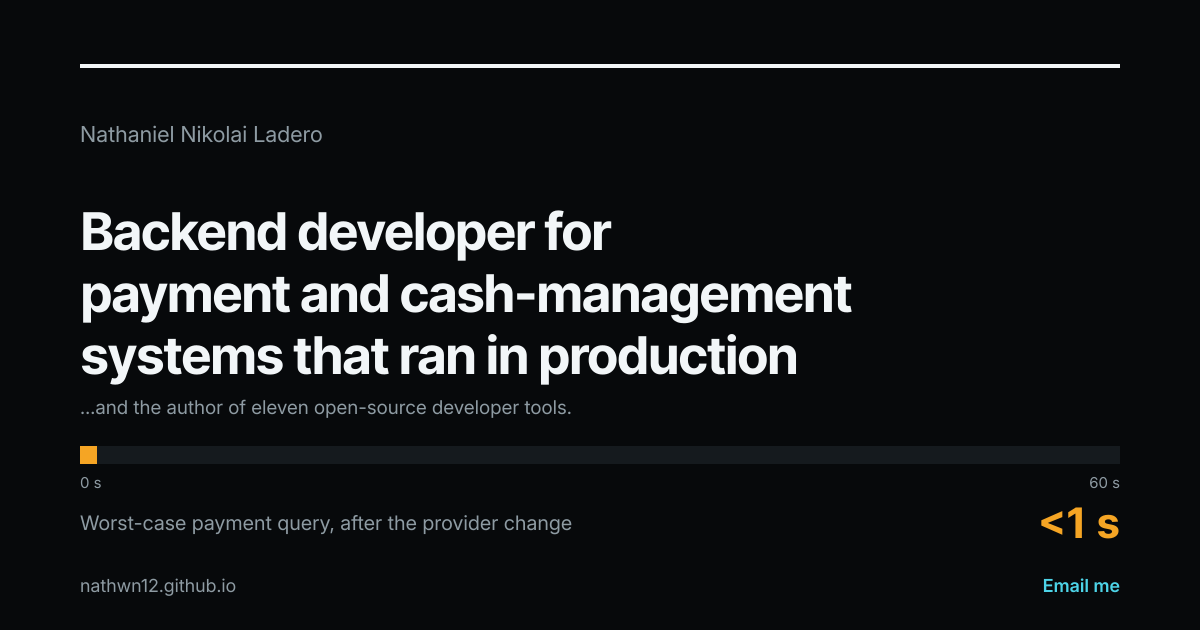
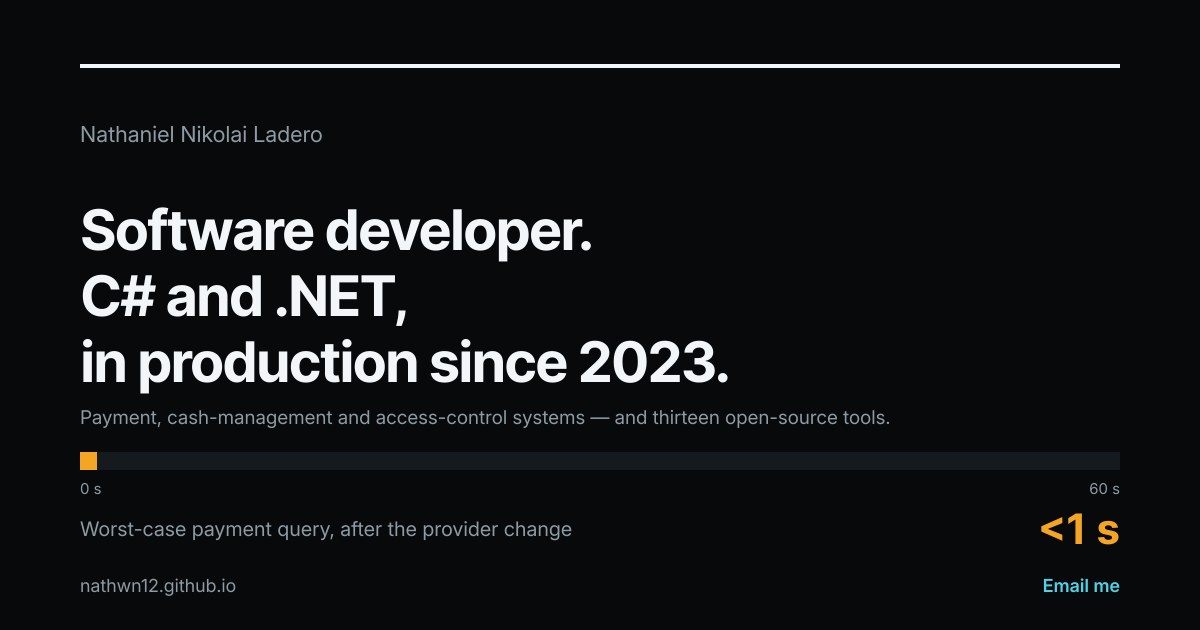
docs: the record as it ships, and a card that matches it

diff --git a/index.html b/index.html
@@ -71,12 +71,12 @@
     <meta property="og:image" content="https://nathwn12.github.io/og-image-2026-11-13.png" />
     <meta property="og:image:width" content="1200" />
     <meta property="og:image:height" content="630" />
-    <meta property="og:image:alt" content="Dark card for Nathaniel Nikolai Ladero: backend developer for payment and cash-management systems that ran in production, with the worst-case payment query measured at under one second." />
+    <meta property="og:image:alt" content="Dark card for Nathaniel Nikolai Ladero: software developer, C# and .NET, in production since 2023, with the worst-case payment query measured at under one second." />
     <meta name="twitter:card" content="summary_large_image" />
     <meta name="twitter:title" content="Nathaniel Nikolai Ladero — software developer, C# and .NET" />
     <meta name="twitter:description" content="Software developer in the Philippines, building C# and .NET payment, cash management and access control systems in production since 2023, and current in AI-assisted development with local models." />
     <meta name="twitter:image" content="https://nathwn12.github.io/og-image-2026-11-13.png" />
-    <meta name="twitter:image:alt" content="Dark card for Nathaniel Nikolai Ladero: backend developer for payment and cash-management systems that ran in production, with the worst-case payment query measured at under one second." />
+    <meta name="twitter:image:alt" content="Dark card for Nathaniel Nikolai Ladero: software developer, C# and .NET, in production since 2023, with the worst-case payment query measured at under one second." />
     <link rel="icon" type="image/svg+xml" href="/icon.svg" />
     <link
       rel="preload"

diff --git a/DESIGN.md b/DESIGN.md
@@ -56,17 +56,27 @@ value is written. A component reads a token; it never writes a hex.
 
 | Token | Value | Role |
 |---|---|---|
-| `--rec-ground` | `#0A0C0E` | the page ground |
-| `--rec-panel` | `#111417` | a raised surface: inset readout, instrument panel |
-| `--rec-panel-2` | `#171B1F` | the step above panel: hover, one inset row |
-| `--rec-rule` | `#23282D` | hairline structure: table rows, panel edges, seams |
+| `--rec-ground` | `#07090B` | the page ground |
+| `--rec-panel` | `#0E1114` | a raised surface: inset readout, instrument panel |
+| `--rec-panel-2` | `#151A1E` | the step above panel: hover, one inset row |
+| `--rec-rule` | `#20262B` | hairline structure: table rows, panel edges, seams |
 | `--rec-rule-strong` | `#39424A` | an active edge: underline, cap, scrollbar thumb |
-| `--rec-ink` | `#E9EEF2` | primary text |
-| `--rec-ink-muted` | `#8C979E` | secondary text only — never body |
-| `--rec-signal` | `#7C9CFF` | structural accent: links, focus, active rules, marks |
-| `--rec-measure` | `#4DD4E8` | **measured values only**: numerals, the live readout |
-| `--rec-alarm` | `#FF5D5D` | exactly one use per page: the "before" bar, the retired project |
+| `--rec-ink` | `#F2F6F8` | primary text |
+| `--rec-ink-muted` | `#8E9BA3` | secondary text only - never body |
+| `--rec-signal` | `#4DD4E8` | structural accent: links, focus, active rules, marks |
+| `--rec-measure` | `#F5A524` | **measured values only**: numerals, the live readout |
+| `--rec-alarm` | `#FF5D5D` | exactly one use per page |
 | `--rec-selection` | signal at 22% | `::selection` background |
+
+The light theme is the same eleven roles, re-pointed: ground `#F1F2ED`, ink `#0D1013`,
+signal `#1B2ED1`, measure `#9A4708`, alarm `#C81E1E`. One switching mechanism -
+`data-theme` on `<html>`, seeded from the OS before first paint and persisted in
+`nnl-theme`; F2 and the footer switch both write it.
+
+The direction is **chroma × area**: the ground stays quiet and chroma is spent only on the
+data, so the eye lands on the numbers. Warm measure against cold signal is deliberate
+simultaneous contrast, and the alarm sits more than 45° away from the measure hue so it
+never reads as a figure.
 
 Contrast is computed from these values by `src/test/theme.test.ts` and
 `tests/contrast.test.ts`, so a palette edit flows into the numbers:
@@ -196,20 +206,22 @@ it.
   and each renders its own seam.
 - The cover is a two-column row from 1024px: the claim, standfirst, stack,
   former-employment line, availability and two actions on the left; the latency
-  instrument as a 20–23rem right-hand panel. All three display lines start on the
-  frame's left edge.
-- Hairlines carry the atlas: the six group rows are a grid whose column headings
-  are the three tiers themselves (`Daily driver`, `Production shipped`, `Working
-  knowledge`). The column is the tier, so no badge, pill, bar or legend encodes
-  it. All 88 packages render once each; below `md` the table folds into one block
-  per group with each tier block labelled, so the fold costs no tier.
-- The work ledger is a single column of eleven repository rows. Each row is
-  complete on its own — name, the year flush on the frame's right edge, the line
-  about the project, then one mono run of kind, authorship and stack — so no two
-  rows share state and the scroll has no opinion about what is being read. Hover
-  and focus draw one 1px signal rule sweeping the row's width while the name
-  steps one space left; there is no panel to fall out of sync with the row under
-  the pointer.
+  instrument as a 20-23rem right-hand panel. All three display lines start on the
+  frame's left edge. The cover is content-height (about 740px at 1440) - it is
+  **not** a viewport tall and the instrument column is **not** sticky: the panel
+  scrolls with the page and states the measurement once.
+- Hairlines carry the atlas: the six group rows run the package names as
+  comma-separated runs with the tier as a word at the head of each run
+  (`Daily driver`, `Production shipped`, `Working knowledge`), so the tier costs
+  a word instead of a column. All 88 packages render once each; below `md` the
+  table folds into one block per group.
+- The work ledger on the home page is **four** featured rows; the other nine live
+  on `/projects`, where all thirteen render as one column. Each row is complete on
+  its own - name, the year flush on the frame's right edge, the line about the
+  project, then one mono run of kind, authorship and stack - so no two rows share
+  state and the scroll has no opinion about what is being read. Hover and focus
+  draw one 1px signal rule sweeping the row's width while the name steps one
+  space left.
 - The closed `footer.colophon` is the ways-out matrix: contact (mail), GitHub,
   LinkedIn, the two documents, the source, and the one setting. One surface per
   fact — no band repeats it.

diff --git a/README.md b/README.md
@@ -1,55 +1,56 @@
 # nathwn12.github.io
 
-Terminal-themed single-page portfolio and resume site for nathwn12, Backend Developer (C#, ASP.NET Core, fintech systems), where you explore experience, skills, projects, and contact through a command terminal with keyboard navigation, in light and dark themes.
+The portfolio and record of Nathaniel Nikolai Ladero — software developer, C# and .NET
+backend, in production since 2023. A near-black instrument panel that states what was
+shipped and what it measurably did, with the receipts in the DOM: payment latency
+60 s → under one second, reads down 40 %+, zero high or critical findings, 1,182 commits
+recovered from 21 scanned repositories.
 
-## Install
+Live at **https://nathwn12.github.io**.
 
-Prerequisites: Node.js >= 20.11 and bun 1.4.4.
+## Run it
+
+Prerequisites: Node 20.19+ and bun 1.4.4.
 
 ```powershell
 git clone https://github.com/nathwn12/nathwn12.github.io.git
 cd nathwn12.github.io
 bun install --frozen-lockfile
-bun run dev
+bun run preview:live
+```
+
+`preview:live` is the one to use while editing: a long-lived Vite server on
+`http://127.0.0.1:5277` with the HMR overlay off, so a half-written save shows the last
+good render instead of a red screen. It logs every module it pushes and writes
+`preview-status.json`.
+
+## Check it
+
+```powershell
 bun run check
-bun run build
 ```
 
-`bun run build` runs `vite build`, copies `Nathaniel-Nikolai-Ladero-Resume.pdf`, `Nathaniel-Nikolai-Ladero-CV.pdf`, and `404.html` into `dist/`, and prerenders routes. Publishing runs through `.github/workflows/deploy.yml`: on push to `main` the build job installs, builds, and uploads `dist` as a Pages artifact, and the deploy job publishes it via `actions/deploy-pages` to the `github-pages` environment. No branch is published directly and no manual command deploys it.
+Typecheck, then the contrast audit (28 pairs across both themes, exit 1 on any failure),
+then the build and 367 tests. `bun run build` runs `vite build`, copies the résumé and CV
+PDFs plus `404.html` into `dist/`, and prerenders each route to its own HTML file with its
+own canonical and Open Graph tags.
 
-## Development
+`bun run probe:repos` re-reads the GitHub account and fails when the project list in
+`src/content/projects.ts` no longer matches what is actually published — private and
+archived repositories are excluded by definition, so the page cannot advertise a dead link.
 
-```powershell
-bun run typecheck
-bun run test
-```
+## Deploy it
 
-`bun run check` runs the typecheck and the test (which builds first, then runs vitest).
+Push to `main`. `.github/workflows/deploy.yml` installs with a frozen lockfile, builds, and
+publishes `dist` through `actions/deploy-pages` to the `github-pages` environment. Nothing
+is published from a branch, and no manual command deploys it.
 
-## Updating from npm or pnpm
+## Stack
 
-This repo uses [Bun](https://bun.sh) to install dependencies and run scripts; Node still runs the code.
+React 19 · TypeScript 7 · Vite 8 · Tailwind CSS 4 (CSS-first) · GSAP 3.15 + Lenis ·
+self-hosted Instrument Serif, Archivo and JetBrains Mono · Vitest 4 · bun.
 
-```powershell
-# once, if bun is missing
-scoop install bun        # or: npm i -g bun / winget install Oven-sh.Bun
+## Design
 
-# in the repo
-Remove-Item package-lock.json,pnpm-lock.yaml -ErrorAction SilentlyContinue
-Remove-Item node_modules -Recurse -Force -ErrorAction SilentlyContinue
-bun install
-```
-
-Use `bun run <script>` from then on. Commit `bun.lock` and never recreate the old lockfile; the repo pins `"packageManager": "bun@1.4.4"`.
-
-## Status
-
-Experimental and still moving. It works today, but it is not a finished
-product: interfaces may change, features may be improved or removed, and a
-release can break the one before it. This is maintained by one person, not a
-team. If it breaks, open an issue with the command you ran and what you saw.
-
-## Links
-
-- [Live site](https://nathwn12.github.io)
-- [MIT](LICENSE)
+`DESIGN.md` is the spec as it ships — palette with measured contrast, type scale, motion
+rules, and the eyeball mandate that governs every visual claim.
